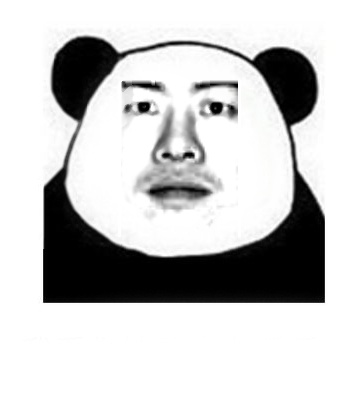
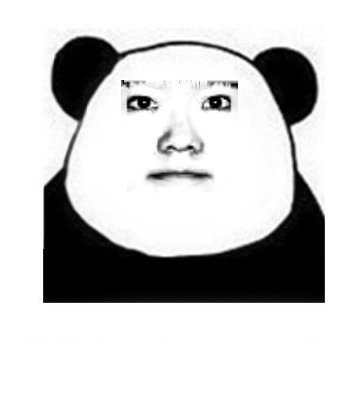
Improve edge erase algorithm

Changed region(s): [[0.3399, 0.1748, 0.6798, 0.5243]]

diff --git a/maker.py b/maker.py
@@ -7,7 +7,6 @@ Rage Expression Maker
 @time: 2017/3/10
 """
 
-
 import numpy as np
 from matplotlib import pyplot as plt
 import cv2
@@ -21,6 +20,31 @@ class Template:
         self.iy = 0
         self.iw = 0
         self.ih = 0
+
+class Face:
+    def __init__(self, img, eye_top, eye_bottom):
+        self.img = img
+        self.eye_top = eye_top
+        self.eye_bottom = eye_bottom
+
+
+def conv(conv_m, img):
+    conv_m = np.array(conv_m)
+    new_img = np.zeros_like(img, dtype=np.uint8)
+    new_img += 255
+    y_bound, x_bound, _ = img.shape
+    half = len(conv_m) / 2
+    rhalf = len(conv_m) - half
+    for y in range(img.shape[0] - len(conv_m) + 1):
+        for x in range(img.shape[1] - len(conv_m) + 1):
+            if y < half or y + rhalf > y_bound or x < half or x + rhalf > x_bound:
+                continue
+            cut = img[max(0, y - half):min(y_bound, y + rhalf), max(0, x - half):min(x_bound, x + rhalf)]
+            cut = cut[:, :, 0]
+            value = (cut / 2 * conv_m).sum()
+            value += 128
+            new_img[y, x] = value
+    return new_img
 
 
 class ExpressionMaker:
@@ -42,9 +66,16 @@ class ExpressionMaker:
         expressions = []
         print('Recognize %d faces in img %s' % (len(faces), img_name))
         for i, face in enumerate(faces):
+            # print log
             block = int(float(20 * (i + 1)) / len(faces) + 0.5)
-            print '\r' + '■'*block + '□'*(20 - block) + '%d / %d' % (i+1, len(faces)),
+            print '\r' + '■' * block + '□' * (20 - block) + '%d / %d' % (i + 1, len(faces)),
+            # set image to gray mode
+            gray = cv2.cvtColor(face.img, cv2.COLOR_BGR2GRAY)
+            for k in range(face.img.shape[2]):
+                face.img[:, :, k] = gray
+            # brighten the face
             face = self.brighten_face(face)
+            face = self._remove_jew_new(face)
             face = self.remove_jew(face)
             face = self._resize_img_by_width(face, template.iw)
             blended_img = self.blend_imgs(face, template)
@@ -55,7 +86,7 @@ class ExpressionMaker:
             output_filename = output_dir + '%03d.jpg' % (i + start_num,)
             cv2.imwrite(output_filename, expression)
 
-        return
+        return expressions
 
     def face_recognition(self, img_name):
         try:
@@ -72,18 +103,20 @@ class ExpressionMaker:
             one_face = np.array(roi_color)
             img = cv2.rectangle(img, (x, y), (x + w, y + h), (255, 0, 0), 2)
             eyes = self.eye_cascade.detectMultiScale(roi_gray)
-            top, left, right = 100000, 100000, 0
+            top, left, right, bottom = 100000, 100000, 0, 0
             for (ex, ey, ew, eh) in eyes:
                 cv2.rectangle(roi_color, (ex, ey), (ex + ew, ey + eh), (0, 255, 0), 2)
                 if ey < top: top = ey
+                if ey > bottom: bottom = ey
                 if ex < left: left = ex
                 if ex + ew > right: right = ex + ew
             if len(eyes):
                 one_face = one_face[top:, left:right]
-            cut_faces.append(one_face)
+            cut_faces.append(Face(one_face, top, bottom))
         return cut_faces
 
     def brighten_face(self, face):
+        face, top, bottom = face.img, face.eye_top, face.eye_bottom
         median = np.median(face)
         thredshold = 220
         if median < thredshold:
@@ -104,10 +137,45 @@ class ExpressionMaker:
         face = face.astype(np.uint8)
         plt.subplot(122)
         plt.imshow(face)
-        return face
+        return Face(face, top, bottom)
+
+    def _remove_jew_new(self, face):
+        # get edge image by convolution
+        edge = conv([[-1, 0], [0, 1]], face.img)
+
+        # get edge std value map
+        def get_std(img, size):
+            ans = np.zeros(img.shape[:2])
+            y_bound, x_bound, _ = img.shape
+            for y in range(y_bound):
+                for x in range(x_bound):
+                    if y < size:
+                        ans[y, x] = 60
+                    if x < size or y < size or x + size > x_bound or y + size > y_bound:
+                        continue
+                    cut = img[y - size / 2:y + size - size / 2, x - size / 2:x + size - size / 2]
+                    ans[y, x] = np.std(cut)
+            return ans
+        edge_std = get_std(edge, 5)
+
+        def _linear_filter(x, alpha):
+            alpha **= 0.2
+            l, r = 5, 25
+            if x < l: return 1.0 * alpha
+            if x > r: return 0.0
+            return (- (x - l) * 1. / (r - l) + 1) * alpha
+        for y in range(face.img.shape[0]):
+            for x in range(face.img.shape[1]):
+                if y <= face.eye_bottom:
+                    remove_alpha = float(y) / float(face.eye_bottom)
+                value = face.img[y, x, 0]
+                remove_rate = _linear_filter(edge_std[y, x], remove_alpha)
+                face.img[y, x] = value + remove_rate * (255. - float(value))
+        return face.img
 
     def remove_jew(self, face):
-        median = np.median(face)
+        median = np.median(face[face < 254])
+
         def find_jew_coor(img):
             x_middle = img.shape[1] // 2
             thredshold = median
@@ -115,18 +183,14 @@ class ExpressionMaker:
                 if img[y, x_middle].mean() >= thredshold:
                     return (x_middle, y)
             return (x_middle, img.shape[1] - 1)
-
         start_point = find_jew_coor(face)
         begin_x, begin_y = start_point
-        queue = [start_point, (face.shape[1] - 1, face.shape[0] - 1), (0, face.shape[0] - 1)]
+        queue = [(i, face.shape[0] - 8) for i in range(face.shape[1])]
         visited = set(queue)
         fill_value = 255
         while len(queue):
             x, y = queue.pop()
             flag = 0
-            if begin_y - y > abs(x - begin_x):
-                continue
-
             if face[y, x].mean() < median:
                 flag = 1
                 face[y, x] = fill_value
@@ -135,7 +199,8 @@ class ExpressionMaker:
                     if add_y == -1:
                         continue
                     if x - begin_x > 0:
-                        if add_x < 0: continue
+                        if add_x < 0:
+                            continue
                     elif add_x > 0:
                         continue
                 new_x, new_y = x + add_x, y + add_y
@@ -144,41 +209,12 @@ class ExpressionMaker:
                         or new_y >= face.shape[0] \
                         or new_y < 0:
                     continue
-
-                if (new_x, new_y) in visited: continue
+                if (new_x, new_y) in visited:
+                    continue
                 visited.add((new_x, new_y))
                 queue.insert(0, (new_x, new_y))
-
-        def get_eraser(size=10):
-            erase = np.zeros((size, size), dtype=np.float16)
-            center = size // 2
-            for x in range(size):
-                for y in range(size):
-                    distance = np.sqrt((x - center) ** 2 + (y - center) ** 2)
-                    erase[x, y] = 1 - distance / size * 2
-            return erase
-
-        def erase_img(img, eraser, x, y, alpha=1.0):
-            if isinstance(eraser, int):
-                eraser = get_eraser(eraser * 2)
-            bound_y, bound_x, _ = img.shape
-            erase_size = eraser.shape[0] // 2
-            cut_erase = eraser[max(0, erase_size - y):min(erase_size * 2, erase_size + bound_y - y),
-                        max(0, erase_size - x): min(erase_size * 2, erase_size + bound_x - x)]
-            cut_erase *= alpha
-            ly, ry = max(0, y - erase_size), min(y + erase_size, bound_y)
-            lx, rx = max(0, x - erase_size), min(x + erase_size, bound_x)
-            area = img[ly:ry, lx:rx]
-            t = area[:, :, 0].astype(np.float16)
-            t = 255 - ((255 - t) - (255 - t) * cut_erase)
-            for i in range(3):
-                area[:, :, i] = t.astype(np.uint8)
-
-        erase_size = 2
-        eraser = get_eraser(erase_size * 2)
         for x, y in visited:
-            erase_img(face, eraser, x, y)
-
+            face[y-2:y+2, x-2:x+2] = fill_value
         return face
 
     def _resize_img_by_width(self, face_img, target_width=120):
@@ -189,7 +225,6 @@ class ExpressionMaker:
         template = Template(cv2.imread('../template/' + filename))
         template.ix, template.iy, template.iw, template.ih = \
             [int(x) for x in filename.split('.')[0].split('_')]
-
         return template
 
     def blend_imgs(self, face_img, template):

diff --git a/test.py b/test.py
@@ -9,8 +9,15 @@
 __author__ = "Rem"
 
 import maker
+import os
 
 if __name__ == '__main__':
     m = maker.ExpressionMaker()
-    m.make_expression('demo.jpg')
+    root = './input/'
+    for file in os.listdir(root):
+        if file != 'demo.jpg': continue
+        try:
+            m.make_expression(root + file)
+        except BaseException:
+            pass
 

diff --git a/README.md b/README.md
@@ -14,7 +14,7 @@ It will recognize the faces of demo.jpg and make a rage expression for each of t
 
 Source image
 
-![](demo.jpg)
+![](input/demo.jpg)
 
 Generated image
 
